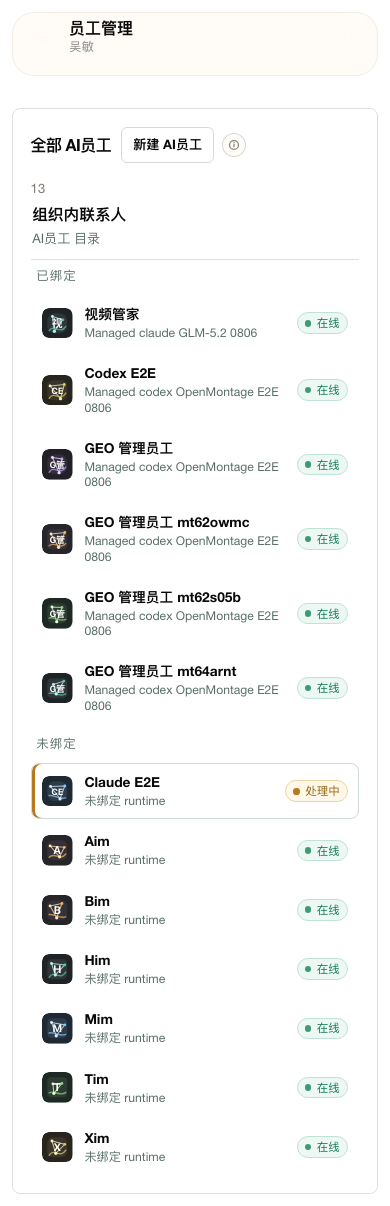
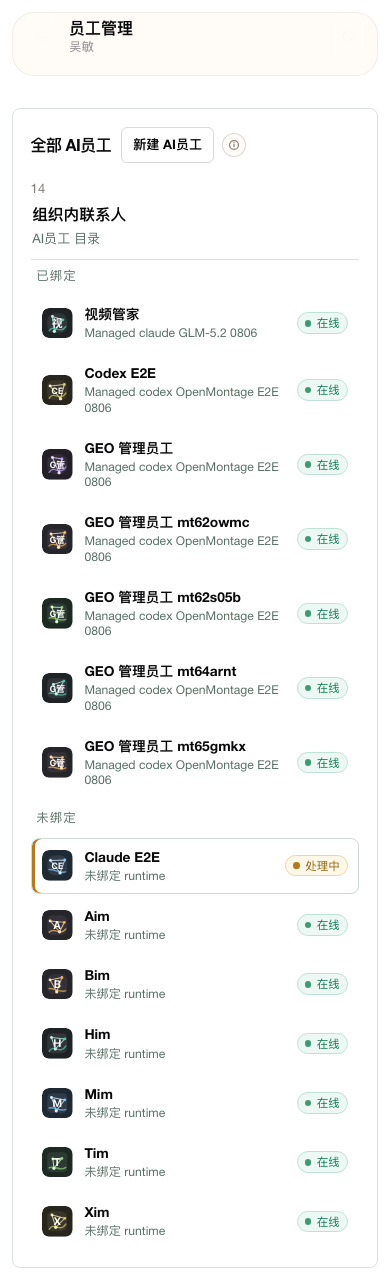
完成GEO真实环境剩余回归

diff --git a/docs/0821/opz/06-GEO-MCP-浏览器验收记录.md b/docs/0821/opz/06-GEO-MCP-浏览器验收记录.md
@@ -12,17 +12,18 @@
 - AgentSpace Runtime：Docker 管理节点 `dofe-agentspace-yootun-managed-node-managed-node-1`，健康状态为 `healthy`。
 - GEOFlow：`geoflow-app-prod`、`geoflow-web-prod`、`geoflow-queue-prod`、`geoflow-scheduler-prod`、`geoflow-reverb-prod` 全部为 `healthy`。
 - PostgreSQL、Redis、RabbitMQ：继续使用 `../docker-helm.dofe.ai` 管理的外部容器；本轮未创建、重建或初始化这些依赖。
-- GEOFlow 应用镜像从提交归档构建，避免未提交工作区内容进入镜像；最终本机镜像 manifest 为 `sha256:ba11c9c7101975dd01eb1ec72d0ce9f29b4be55eeb874c72f906d425892ebb66`。
+- GEOFlow 已按停机排空、外部迁移、启动和 readiness 顺序升级到提交 `308c62f`；app 镜像 manifest 为 `sha256:a96bae4ffdabeb779e6fd8aba6518b700e954acf8f855ebed25d971c6aedc72f`，web 为 `sha256:1aab4a139e8f57c97f5eeaf6b057a96d2d9b2059012ed6f3e900ef1c3ec5a19a`。
+- AgentSpace managed-node 使用本机 recovery overlay 运行 Node `24.19.0`，镜像 manifest 为 `sha256:336f371fb08132bc5acbeda1ff7b2b52d0d830d8334a0d101a222c251fa02d75`；容器健康检查和 daemon status 均通过。
 
 ## 2. 浏览器全流程
 
 最终 Chromium 回归执行了以下真实操作：
 
 1. 以本地测试管理员会话打开 MCP 市场。
-2. 发布 `GEOFlow Docker Live mt64arnt` 私有目录项，Endpoint 为精确批准的 `http://127.0.0.1:18080/mcp`。
+2. 发布 `GEOFlow Docker Live mt65gmkx` 私有目录项，Endpoint 为精确批准的 `http://127.0.0.1:18080/mcp`。
 3. 配置加密保存的 Authorization 凭据，选择在线 Codex Runtime，并等待连接状态变为 `ready`。
 4. 声明并发现五个带命名空间的工具：`create`、`status`、`autosave`、`validate`、`publish`。
-5. 打开 AI 员工创建页，以空白模板创建 `GEO Manager mt64arnt`，备注名为 `GEO 管理员工 mt64arnt`，绑定同一 Runtime。
+5. 打开 AI 员工创建页，以空白模板创建 `GEO Manager mt65gmkx`，备注名为 `GEO 管理员工 mt65gmkx`，绑定同一 Runtime。
 6. 在桌面和 390 x 844 移动视口检查员工目录、文本布局和横向溢出。
 
 | 检查 | 最终结果 |
@@ -32,8 +33,8 @@
 | 浏览器 console error / warning | 0 / 0 |
 | `requestfailed` | 0 |
 | 移动端横向溢出 | 0 px |
-| 页面 DCL / load | 807 ms / 807 ms |
-| Playwright | 1 passed，35.0 s |
+| 页面 DCL / load | 663 ms / 763 ms |
+| Playwright | 1 passed，32.6 s |
 
 证据：
 
@@ -57,11 +58,11 @@
 
 | 业务实体 / 证据 | 值 |
 | --- | --- |
-| AgentSpace task | `task-geo-live-mt647r33` |
-| GEOFlow enterprise project | `5`，发布前状态 `reviewing` |
-| Knowledge base | `4` |
+| AgentSpace task | `task-geo-live-mt65dq96` |
+| GEOFlow enterprise project | `6`，发布前状态 `reviewing` |
+| Knowledge base | `5` |
 | Knowledge chunks | `3` |
-| Embedding | models 实际路由返回，model id `7`，维度 `2048` |
+| Embedding | models `embedding-vision` 实际路由返回，provider `dofe-models-api-local`，维度 `2048` |
 | 成功工具审计 | 五个工具全部存在 `succeeded` 记录 |
 
 这条链路不是直接调用 GeoFlow service：请求实际经过 AgentSpace 目录、连接密钥解密、任务级授权、daemon gateway、Streamable HTTP MCP、GeoFlow queue 和 models embedding 调用。
@@ -75,8 +76,11 @@
 5. 企业知识 AI 生成约 30-63 秒，旧验收在 60 秒超时后继续发布，后台任务可能覆盖人工稿。现业务端在 queued/processing 状态拒绝保存、校验和发布，队列任务使用原子状态条件写回；验收必须等待 `reviewing`。
 6. 浏览器表单的 HTML pattern 对 `-` 转义不完整，且工具名不允许点号。现已修正 slug、版本和工具名 pattern，并补充组件测试。
 7. 审计验收原用分页总数差切片，历史达到 25 条上限后误报空审计。现将查询上限提高到 100，并按本次 `taskId` 精确过滤。
+8. GeoFlow URL 导入原先先计数再创建，并发请求可能越过每租户上限。现按租户哈希锁串行化计数与创建；真实容器 5 路并发验证为 3 个创建成功、2 个稳定限流，测试记录随后清零。
+9. GeoFlow `tools/list` 原先向只读令牌暴露写工具名称。现按令牌 scope 过滤目录；真实容器验证写令牌可见 51 个工具，只读令牌仅见 26 个且不包含任务创建和文章发布。
+10. SSO 登录后的前端误用 `document.cookie` 验证生产 HttpOnly Cookie，成功登录也会输出 warning。修复改为调用后端 `/auth/session` 验证；真实隔离 Chromium 已完成手机号登录、OAuth authorize、AgentSpace callback 和工作区落地，所有关键响应成功。
 
-GeoFlow 对应提交：`ca3eeba`（按凭证隔离限流）、`cd9a7ff`（发布竞态保护）、`41cb1c6`（无 pgvector 列兼容）。
+GeoFlow 对应提交：`ca3eeba`（按凭证隔离限流）、`cd9a7ff`（发布竞态保护）、`41cb1c6`（无 pgvector 列兼容）、`0015eb5`（URL 导入并发保护）、`308c62f`（工具发现权限过滤）。SSO 对应提交：`736cebc`（HttpOnly 会话验证）。
 
 ## 5. 自动化回归结果
 
@@ -88,9 +92,14 @@ GeoFlow 对应提交：`ca3eeba`（按凭证隔离限流）、`cd9a7ff`（发布
 | AgentSpace daemon typecheck | 通过 |
 | 真实 AgentSpace -> GEOFlow MCP | 通过，五工具、3 chunks、五条成功审计 |
 | Chromium 桌面/移动端 | 1 passed；0 console issue；0 failed request；0 overflow |
+| 外部 SSO 隔离 Chromium | 登录 POST 200；authorize 302；callback 307；工作区 200 |
+| GeoFlow MCP 权限目录 | 写令牌 51 个；只读令牌 26 个且隐藏写工具 |
+| GeoFlow URL 导入并发 | 5 路并发：3 创建、2 限流；清理后 0 条测试记录 |
+| managed-node Node 基线 | `v24.19.0`；daemon healthy；真实五工具任务通过 |
 
 ## 6. 保留限制
 
-- 宿主机当前为 Node `25.9.0`，仓库契约为 Node `24.19.0`，因此 pnpm 会正确发出 engine warning。正式 CI 和发布镜像仍必须使用 Node 24.19.0；本机 managed-node overlay 仅用于这次 Docker 联调，不作为发布镜像。
-- 本轮外部 SSO 登录页按钮没有产生回调请求，因此浏览器验收使用数据库创建的本地短期测试会话。MCP、员工、Runtime 和业务数据均为真实本地/测试环境数据，但外部 SSO provider 登录仍需在其可用环境单独回归。
+- 宿主机仍为 Node `25.9.0`，因此宿主 pnpm 会正确发出 engine warning；真实 managed-node 已使用官方发行包和固定 SHA-256 运行 Node `24.19.0`。正式 CI 仍必须发布批准的私有 `node:24.19-bookworm-slim` 基础镜像，本机 recovery overlay 不作为发布镜像。
+- 中央 PostgreSQL 当前没有 pgvector ANN 列。正确性路径已验证使用 `embedding_json` 保存 2048 维真实向量并完成发布；大规模检索的 ANN 性能优化仍属于集中数据库能力建设。
+- SSO 源码修复已在 `sso.dofe.ai` 本地提交并通过单测、ESLint、Web TypeScript；本机没有远端 SSO 的非 Jenkins 部署入口，因此线上页面仍可能输出旧 warning，但真实登录和 AgentSpace callback 已成功。
 - 本机没有启动或触发 Jenkins，也没有 push。GeoFlow Docker 部署仅为用户明确要求的本机真实环境回归。
